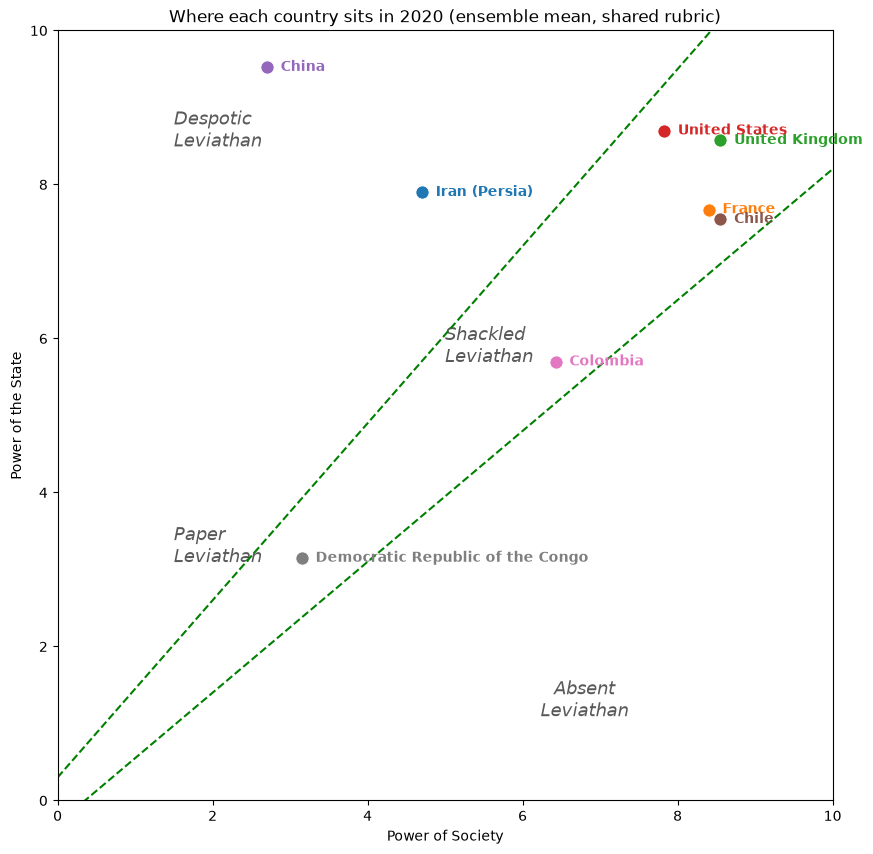
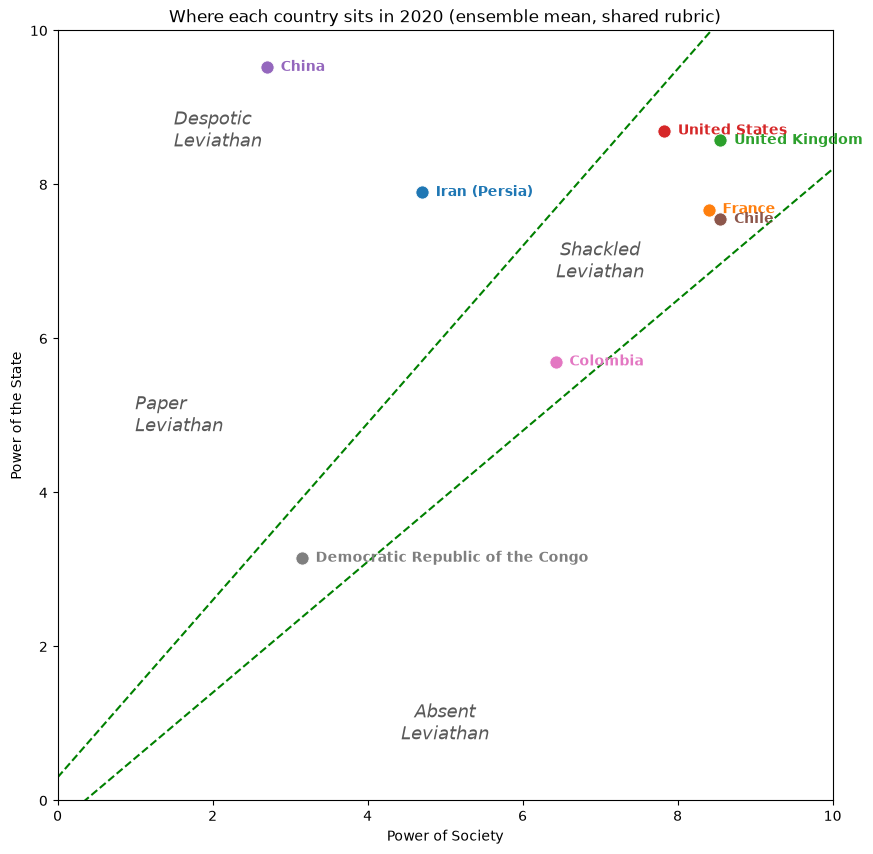
Paper: UK example in body + full atlases in appendix; reframe US as Shackled; tidy Fig 2 labels; add links
- Move the three 8-panel atlases (trajectory/ensemble/V-Dem) to Appendix A as
  2-column x 4-row full-page grids; keep one large UK panel and the combined
  regions map in the body.
- Reframe the United States throughout as a second Shackled Leviathan alongside
  the UK (remove the outlier/divergence/contested framing and the training-data
  paragraph that only explained it); the low US inter-model agreement is now a
  difference of degree, all models place it in the corridor.
- Combined map (atlas_combined.py): reposition region labels (Shackled by the
  US/UK cluster at 7,7; Paper at 1,5; Absent at 5,1).
- Add code and gallery links under the author block.

Claude-Session: https://claude.ai/code/session_01SrV3E8eRghKw3ovB913eBm

diff --git a/paper/main.tex b/paper/main.tex
@@ -24,18 +24,21 @@
 
 % Include an atlas panel if it has been generated, else a labeled placeholder box
 % so the paper compiles before experiments are run.
-% 4 panels per row (0.24\textwidth each) keeps each 8-panel figure ~2 rows / half
-% a page tall, so it floats to a page top instead of a deferred full float page.
+% Appendix atlas panels: 2 per row, 4 rows per page. Height-capped so the four
+% rows fit a single page (the panels are near-square, so height is the binding
+% constraint, not width).
 \newcommand{\atlas}[1]{%
   \IfFileExists{experiments/results/#1.png}%
-    {\includegraphics[width=0.24\textwidth]{experiments/results/#1.png}}%
-    {\fbox{\parbox[c][2.6cm][c]{0.225\textwidth}{\centering\scriptsize
+    {\includegraphics[height=0.225\textheight,keepaspectratio]{experiments/results/#1.png}}%
+    {\fbox{\parbox[c][3.4cm][c]{0.42\textwidth}{\centering\footnotesize
        \textcolor{red}{\texttt{\detokenize{#1}}}\\[2pt](panel not generated)}}}%
 }
 
 \title{\bf Mapping the Narrow Corridor with Large Language Models}
 
-\author{Ebrahim M. Songhori \\ \texttt{[email redacted]}}
+\author{Ebrahim M. Songhori \\ \texttt{[email redacted]} \\[3pt]
+  {\small Code: \url{https://github.com/esonghori/narrow-corridor-llm}} \\
+  {\small Gallery: \url{https://esonghori.github.io/narrow-corridor-llm/}}}
 \date{July 1, 2026}
 
 \begin{document}
@@ -246,10 +249,9 @@ gallery at \url{https://esonghori.github.io/narrow-corridor-llm/}.
 \paragraph{Countries.} We study eight countries, chosen so that at least one
 falls in each of the four Leviathan types the book defines. \textbf{China} and
 \textbf{Iran (Persia)} are candidate \emph{Despotic} Leviathans (a strong state
-over a weak society); the \textbf{United Kingdom} and \textbf{France} are
+over a weak society); the \textbf{United Kingdom}, \textbf{France}, and the \textbf{United States} are
 candidate \emph{Shackled} Leviathans (state and society balanced inside the
-corridor), with the \textbf{United States} the book's Shackled case that our
-models read as contested (Section~\ref{sec:atlas}); \textbf{Colombia} is a
+corridor); \textbf{Colombia} is a
 candidate \emph{Paper} Leviathan (a state strong on paper but with little real
 reach into society or territory); and the \textbf{Democratic Republic of the
 Congo} is a candidate \emph{Absent} Leviathan (a state too weak to govern much of
@@ -293,9 +295,11 @@ additional anchors but are out of scope here.
 
 \subsection{Trajectory atlas}
 \label{sec:atlas}
-Figure~\ref{fig:atlas} shows the eight trajectories under \texttt{claude-opus-4-8},
-chosen as a single reference model for legibility; the per-model panels for all
-four models are in the online gallery, and their disagreement is quantified in
+Figure~\ref{fig:uk} reads one trajectory closely, the United Kingdom under
+\texttt{claude-opus-4-8}. The full eight-country atlas for this reference model
+(and its ensemble and V-Dem counterparts) is collected at large size in
+Appendix~\ref{app:atlases}; every model's per-country panels are in the online
+gallery, with cross-model disagreement quantified in
 Section~\ref{sec:reliability}. Read against the book's four Leviathan types, most
 placements land where the framework expects. The \textbf{United Kingdom} stays
 inside the corridor throughout, state and society rising together (the Red
@@ -316,30 +320,25 @@ Republic of the Congo}, the book's Absent Leviathan, stays near the origin
 throughout: state power spikes briefly under Mobutu's mid-century regime, then
 collapses around 1960 independence and the subsequent wars, ending low on both
 axes (society $\approx3.2$, state $\approx3.2$), the persistently weak state the
-Absent-Leviathan label describes. The \textbf{United States} is the
-outlier: the book treats it as a Shackled Leviathan, but our models drift it from
-a society-leaning founding toward state dominance, a placement we scrutinize
-below, as it departs from both the book and the expert data. Long diagonal runs
+Absent-Leviathan label describes. The \textbf{United States} is another
+Shackled Leviathan, much like the UK: state and society grow strong together and
+it ends inside the corridor, if with a somewhat stronger state tilt than the UK.
+Its state axis climbs faster than the UK's, but it stays within the corridor
+rather than crossing into state dominance. Long diagonal runs
 mark co-growth; tight loops mark oscillation in contested periods; large
 single-period jumps mark ruptures.
 
-\begin{figure*}[t]
+\begin{figure}[t]
   \centering
-  % Panels match run_experiments.py slugs: <country-slug>__<model-slug>
-  \atlas{iran-persia__anthropic-claude-opus-4-8}\hfill
-  \atlas{france__anthropic-claude-opus-4-8}\hfill
-  \atlas{united-kingdom__anthropic-claude-opus-4-8}\hfill
-  \atlas{united-states__anthropic-claude-opus-4-8}\\[4pt]
-  \atlas{china__anthropic-claude-opus-4-8}\hfill
-  \atlas{chile__anthropic-claude-opus-4-8}\hfill
-  \atlas{colombia__anthropic-claude-opus-4-8}\hfill
-  \atlas{democratic-republic-of-the-congo__anthropic-claude-opus-4-8}
-  \caption{Trajectory atlas: society power (x) vs.\ state power (y) for eight
-  countries under \texttt{claude-opus-4-8}. Paths are time-shaded (dark $=$
-  early, bright $=$ late); dashed lines mark the book's widening corridor
-  illustratively. Animated versions are available in the online gallery.}
-  \label{fig:atlas}
-\end{figure*}
+  \includegraphics[width=\columnwidth]{experiments/results/united-kingdom__anthropic-claude-opus-4-8.png}
+  \caption{A single trajectory read closely: the United Kingdom under
+  \texttt{claude-opus-4-8}, society power (x) vs.\ state power (y), time-shaded
+  from early (dark) to late (bright). State and society rise together along the
+  diagonal (the Red Queen), staying inside the widening corridor (dashed) the
+  whole way, a textbook Shackled Leviathan. The full eight-country atlas is in
+  Appendix~\ref{app:atlases}.}
+  \label{fig:uk}
+\end{figure}
 
 \subsection{Ensemble atlas (mean across models)}
 \label{sec:ensemble}
@@ -355,29 +354,9 @@ Figure~\ref{fig:atlas}. We treat this mean
 atlas, not any single model, as the paper's headline reading. The mean is close
 to the reference model for the high-agreement cases (Iran, Chile;
 Section~\ref{sec:reliability}) and visibly smoother for the United States, where
-the models disagree most, so the averaged path diverges most from any single
-model there. The corridor placements are unchanged: UK inside,
-France and Chile in or entering it, Iran and China state-dominated, Colombia and
-the Congo below the corridor, and the US drifting toward state dominance.
-
-\begin{figure*}[t]
-  \centering
-  \atlas{iran-persia__ensemble-mean}\hfill
-  \atlas{france__ensemble-mean}\hfill
-  \atlas{united-kingdom__ensemble-mean}\hfill
-  \atlas{united-states__ensemble-mean}\\[4pt]
-  \atlas{china__ensemble-mean}\hfill
-  \atlas{chile__ensemble-mean}\hfill
-  \atlas{colombia__ensemble-mean}\hfill
-  \atlas{democratic-republic-of-the-congo__ensemble-mean}
-  \caption{Ensemble atlas: the same eight countries, each averaged across the four
-  models period by period (panels titled ``ensemble mean''). Compared with the
-  single-model atlas (Fig.~\ref{fig:atlas}), the mean damps any one model's
-  idiosyncrasy; the spread it averages over is reported as Krippendorff's
-  $\alpha$ in Table~\ref{tab:intermodel}. Time-shaded (dark $=$ early, bright $=$
-  late); dashed lines mark the book's widening corridor illustratively.}
-  \label{fig:atlas-mean}
-\end{figure*}
+the models disagree most about how fast its state grew. The corridor placements
+are unchanged: the UK, France, and the US inside the corridor, Chile entering it,
+Iran and China state-dominated, and Colombia and the Congo low.
 
 \subsection{One map, all countries}
 \label{sec:combined}
@@ -390,10 +369,10 @@ $7$ on the state axis is meant to denote the same level of state capacity for th
 Congo as for China. Figure~\ref{fig:combined} overlays all eight ensemble-mean
 paths in one space to test that bet. The relative placement is broadly sensible:
 the Despotic cases (China, Iran) sit high on the state axis with weak society, the
-Shackled cases (UK, France) climb the diagonal into the strong-both upper-right,
-and the Paper and Absent cases sit lower and further from that corner, Colombia at
-moderate levels in the lower corridor and the Congo near the weak-state origin,
-with the US drifting upward. That the countries sort
+Shackled cases (UK, France, and the US) climb the diagonal into the strong-both
+upper-right, and the Paper and Absent cases sit lower and further from that corner,
+Colombia at moderate levels in the lower corridor and the Congo near the
+weak-state origin. That the countries sort
 into the book's regions on a single common scale is evidence the rubric transports
 across countries well enough for a joint reading. It is not proof: the shared
 training-data biases that may inflate a score could do so consistently across
@@ -436,8 +415,10 @@ Leviathan path.
 Table~\ref{tab:validation} reports correlations between the LLM scores and V-Dem
 over overlapping years, on both levels and first differences. On \emph{levels},
 LLM society power tracks V-Dem's core civil-society index strongly for China
-($\rho=0.89$), France ($0.87$), Chile ($0.74$) and the UK ($0.70$); the striking
-exception is the United States ($\rho=-0.10$, discussed in the case studies). On
+($\rho=0.89$), France ($0.87$), Chile ($0.74$) and the UK ($0.70$); the one low
+value, the United States ($\rho=-0.10$), is a variance artifact rather than a
+category mismatch, since V-Dem holds US civil society nearly flat and high across
+the whole window, leaving almost nothing for a rank correlation to track. On
 the more demanding \emph{first differences} the society signal is positive but
 weaker (China $0.66$, Iran $0.60$, France $0.40$), as expected once the shared
 trend is removed. The \emph{state} axis is where consistency collapses:
@@ -459,25 +440,6 @@ States near the top of the state axis, the opposite of the LLM, which reads thos
 as weak states still building capacity. The comparison is thus best read as
 \emph{agreement on society, divergence on the operationalization of state power}.
 
-\begin{figure*}[t]
-  \centering
-  \atlas{iran-persia__vdem}\hfill
-  \atlas{france__vdem}\hfill
-  \atlas{united-kingdom__vdem}\hfill
-  \atlas{united-states__vdem}\\[4pt]
-  \atlas{china__vdem}\hfill
-  \atlas{chile__vdem}\hfill
-  \atlas{colombia__vdem}\hfill
-  \atlas{democratic-republic-of-the-congo__vdem}
-  \caption{V-Dem atlas: the same eight countries plotted from expert codings
-  (society $=$ core civil-society index $\times10$; state $=$ authority over
-  territory $/10$) at the LLM period-midpoint years. Compared with the LLM
-  ensemble (Fig.~\ref{fig:atlas-mean}) the society axis broadly agrees, but
-  V-Dem's territorial-authority state axis is near-saturated for consolidated
-  states and misses the state-capacity dynamics the LLM captures.}
-  \label{fig:vdem}
-\end{figure*}
-
 \subsection{Model comparison and reliability}
 \label{sec:reliability}
 Treating each model as a ``rater'' in the sense of inter-coder
@@ -495,10 +457,11 @@ same \emph{moves}, not merely the same secular trend. Models agree
 slightly more on society ($\alpha=0.70$ overall) than on the state axis
 ($0.68$), and most on the countries with the clearest arcs, Iran ($0.77/0.78$)
 and Chile (society $0.83$).
-Agreement is lowest for the United States (society $\alpha=0.47$), the same case
-whose atlas placement and V-Dem society correlation are most anomalous: model
-disagreement localizes exactly the contested reading, as a human panel's would.
-The open-weight model does not systematically diverge on the periods it scored.
+Agreement is lowest for the United States (society $\alpha=0.47$), but the
+disagreement is one of degree, not of category: all four models place it inside
+the corridor as a Shackled Leviathan and differ only on how strong its central
+and security state grew. The open-weight model does not systematically
+diverge on the periods it scored.
 \input{tables/intermodel}
 
 \subsection{Qualitative case studies}
@@ -510,20 +473,14 @@ power, but the new revolutionary state then consolidated and demobilized that
 society rather than balancing it, ending in a Despotic Leviathan. \textbf{Chile,
 1973/1990.} The 1973 coup is the largest single move (society crashing, state
 spiking near the ceiling), followed by recovery after the 1990 plebiscite, a
-country leaving and re-entering the corridor. \textbf{United States (a genuine
-divergence).} The models read a long slide from a society-leaning founding toward
-a strong federal and security state, ending state-leaning, with the Civil War as
-the largest move. This contradicts both the book, which treats the US as a
-corridor-dwelling Shackled Leviathan, and V-Dem, which keeps US civil society
-pinned high throughout (Fig.~\ref{fig:vdem}); it is also the country where the
-models agree least. One plausible source of the bias is the training data itself:
-the United States is the most heavily reported and most scrutinized polity in the
-English-language corpus these models learn from, so its every expansion of
-federal, military, and surveillance power is documented in far greater volume than
-comparable developments elsewhere. A model may therefore over-weight the growth of
-the American state relative to the quieter resilience of its civil society, which
-is less sensational and less densely recorded. We read the US path as a caution
-rather than as a finding.
+country leaving and re-entering the corridor. \textbf{United States.} Like the UK, the US traces a long co-growth of state and
+society, ending inside the corridor as a Shackled Leviathan, with the Civil War
+its largest single move. It sits a little higher on the state axis than the UK,
+reflecting the twentieth-century build-out of the federal and security state, but
+it does not cross into state dominance. The models agree least here
+(Section~\ref{sec:reliability}), differing on how strong that central state grew
+relative to civil society, yet they concur on the corridor placement, so the US
+reads as a second Shackled case alongside the UK rather than an exception.
 
 \section{Discussion: LLM vs.\ Human Researcher or Expert Panel}
 \label{sec:discussion}
@@ -610,6 +567,71 @@ one-command exercise. The resulting eight-country atlas is a first
 quantified rendering of a framework that has been purely qualitative, and the
 accompanying consistency check and bias discussion frame honestly what such
 LLM-generated measurements are, and are not, good for.
+
+\appendix
+\section{Full trajectory atlases}
+\label{app:atlases}
+The main text reads one trajectory closely (Fig.~\ref{fig:uk}) and maps all eight
+countries' 2020 positions together (Fig.~\ref{fig:combined}). Here are the full
+per-country atlases at readable size: the single reference model
+(Fig.~\ref{fig:atlas}), the ensemble mean across the four models
+(Fig.~\ref{fig:atlas-mean}), and the V-Dem expert codings replotted in the same
+space (Fig.~\ref{fig:vdem}).
+
+\begin{figure*}[p]
+  \centering
+  % Panels match run_experiments.py slugs: <country-slug>__<model-slug>
+  \atlas{iran-persia__anthropic-claude-opus-4-8}\hfill
+  \atlas{france__anthropic-claude-opus-4-8}\\[6pt]
+  \atlas{united-kingdom__anthropic-claude-opus-4-8}\hfill
+  \atlas{united-states__anthropic-claude-opus-4-8}\\[6pt]
+  \atlas{china__anthropic-claude-opus-4-8}\hfill
+  \atlas{chile__anthropic-claude-opus-4-8}\\[6pt]
+  \atlas{colombia__anthropic-claude-opus-4-8}\hfill
+  \atlas{democratic-republic-of-the-congo__anthropic-claude-opus-4-8}
+  \caption{Trajectory atlas (reference model \texttt{claude-opus-4-8}): society
+  power (x) vs.\ state power (y) for all eight countries, time-shaded (dark $=$
+  early, bright $=$ late); dashed lines mark the book's widening corridor
+  illustratively. Animated versions are in the online gallery.}
+  \label{fig:atlas}
+\end{figure*}
+
+\begin{figure*}[p]
+  \centering
+  \atlas{iran-persia__ensemble-mean}\hfill
+  \atlas{france__ensemble-mean}\\[6pt]
+  \atlas{united-kingdom__ensemble-mean}\hfill
+  \atlas{united-states__ensemble-mean}\\[6pt]
+  \atlas{china__ensemble-mean}\hfill
+  \atlas{chile__ensemble-mean}\\[6pt]
+  \atlas{colombia__ensemble-mean}\hfill
+  \atlas{democratic-republic-of-the-congo__ensemble-mean}
+  \caption{Ensemble atlas: the same eight countries, each averaged across the four
+  models period by period (panels titled ``ensemble mean''). The mean damps any
+  one model's idiosyncrasy; the spread it averages over is Krippendorff's $\alpha$
+  in Table~\ref{tab:intermodel}. Time-shaded; dashed lines mark the widening
+  corridor.}
+  \label{fig:atlas-mean}
+\end{figure*}
+
+\begin{figure*}[p]
+  \centering
+  \atlas{iran-persia__vdem}\hfill
+  \atlas{france__vdem}\\[6pt]
+  \atlas{united-kingdom__vdem}\hfill
+  \atlas{united-states__vdem}\\[6pt]
+  \atlas{china__vdem}\hfill
+  \atlas{chile__vdem}\\[6pt]
+  \atlas{colombia__vdem}\hfill
+  \atlas{democratic-republic-of-the-congo__vdem}
+  \caption{V-Dem atlas: the same eight countries from expert codings (society $=$
+  core civil-society index $\times10$; state $=$ authority over territory $/10$)
+  at the LLM period-midpoint years. The society axis broadly agrees with the LLM
+  ensemble (Fig.~\ref{fig:atlas-mean}), but V-Dem's territorial-authority state
+  axis is near-saturated for consolidated states and misses the state-capacity
+  dynamics the LLM captures.}
+  \label{fig:vdem}
+\end{figure*}
 
 \section*{Reproducibility}
 All code, prompts, the on-disk response cache, and every run (JSON, static

diff --git a/paper/experiments/atlas_combined.py b/paper/experiments/atlas_combined.py
@@ -29,9 +29,9 @@ LO, HI = 0.0, 10.0  # fixed rubric quadrant, origin-anchored like the book's fig
 # (x, y) in society/state units; ha/va chosen so text sits inside its zone.
 REGIONS = [
     ("Despotic\nLeviathan", 1.5, 8.7, "left"),
-    ("Shackled\nLeviathan", 5.0, 5.9, "left"),   # lower-mid corridor, clear of the end-point cluster
-    ("Paper\nLeviathan", 1.5, 3.3, "left"),
-    ("Absent\nLeviathan", 6.8, 1.3, "center"),
+    ("Shackled\nLeviathan", 7.0, 7.0, "center"),  # in the corridor by the US/UK cluster
+    ("Paper\nLeviathan", 1.0, 5.0, "left"),
+    ("Absent\nLeviathan", 5.0, 1.0, "center"),
 ]
 
 